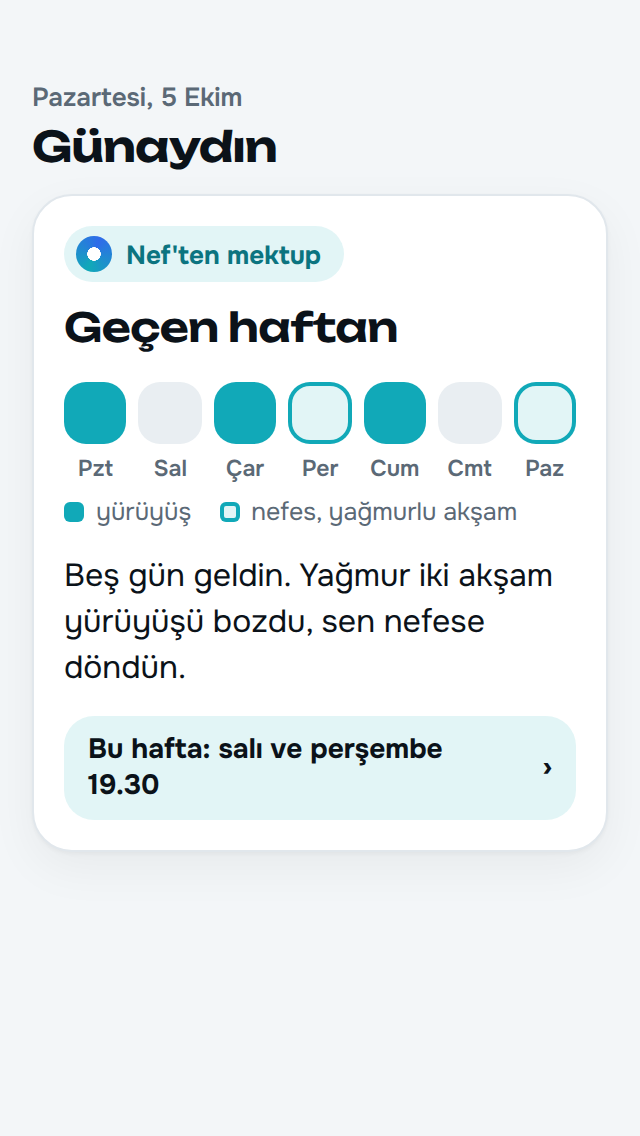
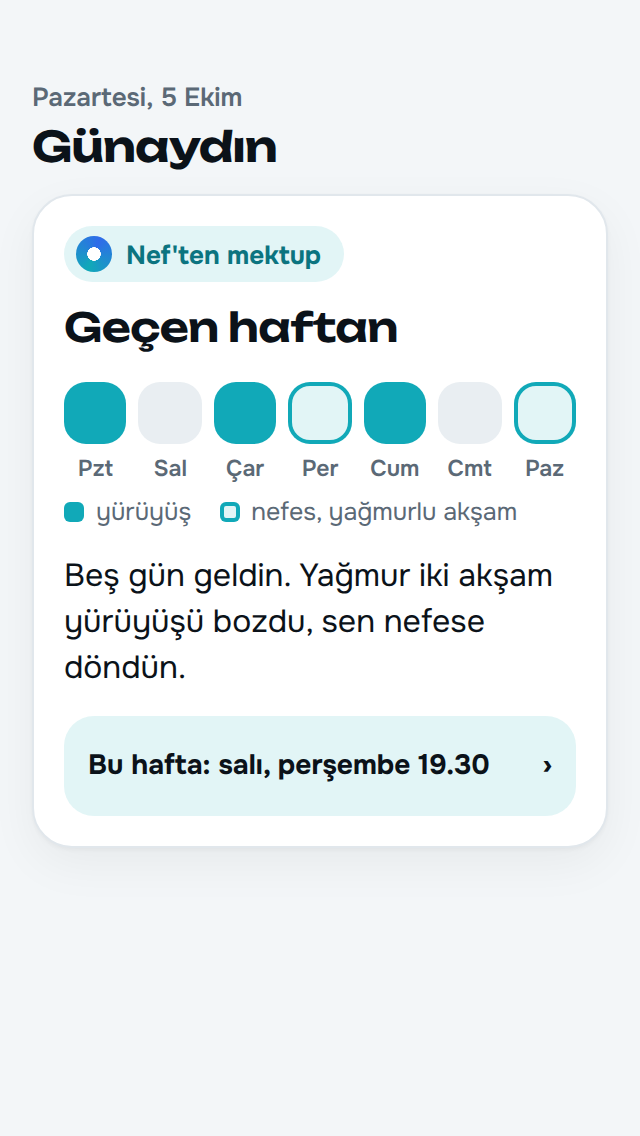
Nef örnekleri 3. tur sonucu: M1C 4/5, M4A 5/5, M5C 4/5 geçti; plan güncellendi
Claude-Session: https://claude.ai/code/session_01EMzDxToauEGD9S7dcWnzcj

Changed region(s): [[0.125, 0.647, 0.875, 0.7702]]

diff --git a/docs/yol-haritasi/tasarim/nef/ornekler/tur3.html b/docs/yol-haritasi/tasarim/nef/ornekler/tur3.html
@@ -165,12 +165,12 @@ body { font-family: var(--f-body); color: var(--ink); -webkit-font-smoothing: an
 <div class="phone app" id="M4A" hidden><div class="eyebrow">Pazartesi, 5 Ekim</div><h1>Günaydın</h1><section class="card"><span class="badge"><i></i>Nef'ten mektup</span>
 <p class="hero">Yağmurlu iki akşam yürüyüş yerine nefesi seçtin; düzenin bozulmadı.</p><div class="wk"><div><i class="w"></i>Pzt</div><div><i class=""></i>Sal</div><div><i class="w"></i>Çar</div><div><i class="b"></i>Per</div><div><i class="w"></i>Cum</div><div><i class=""></i>Cmt</div><div><i class="b"></i>Paz</div></div>
 <div class="lg"><span>yürüyüş</span><span class="b">nefes, yağmurlu akşam</span></div>
-<div class="tipline"><span>Bu hafta: salı ve perşembe 19.30</span><span>›</span></div></section></div>
+<div class="tipline"><span>Bu hafta: salı, perşembe 19.30</span><span>›</span></div></section></div>
 <div class="phone app" id="M4B" hidden><div class="eyebrow">Pazartesi, 5 Ekim</div><h1>Günaydın</h1><section class="card"><span class="badge"><i></i>Nef'ten mektup</span>
 <p class="hero" style="font-size:20px">Geçen haftan</p><div class="wk"><div><i class="w"></i>Pzt</div><div><i class=""></i>Sal</div><div><i class="w"></i>Çar</div><div><i class="b"></i>Per</div><div><i class="w"></i>Cum</div><div><i class=""></i>Cmt</div><div><i class="b"></i>Paz</div></div>
 <div class="lg"><span>yürüyüş</span><span class="b">nefes, yağmurlu akşam</span></div>
 <p style="margin:0 0 12px;font-size:16px;line-height:1.45">Beş gün geldin. Yağmur iki akşam yürüyüşü bozdu, sen nefese döndün.</p>
-<div class="tipline"><span>Bu hafta: salı ve perşembe 19.30</span><span>›</span></div></section></div>
+<div class="tipline"><span>Bu hafta: salı, perşembe 19.30</span><span>›</span></div></section></div>
 <div class="phone app" id="M4C" hidden><div class="eyebrow">Pazartesi, 5 Ekim</div><h1>Günaydın</h1><section class="card letter short"><span class="badge"><i></i>Nef'ten mektup</span>
 <p style="margin-top:14px">Geçen hafta yağmur iki akşam yürüyüşünü bozdu. Sen ikisinde de nefese döndün.</p>
 <p>Bu hafta salı ve perşembe 19.30 senin.</p><div class="sign">Nef</div></section></div>
@@ -187,7 +187,7 @@ body { font-family: var(--f-body); color: var(--ink); -webkit-font-smoothing: an
 <div class="phone app" id="M5C" hidden><div class="eyebrow">Pazar, 11 Ekim</div><h1>İyi akşamlar</h1><section class="card"><span class="badge"><i></i>Nef</span>
 <p class="hero">Bu hafta beş alanın dördünde çalıştın. Sırada Dikkat var.</p>
 <div class="doms"><div>Göz<b style="--v:86%"></b></div><div>Nefes<b style="--v:71%"></b></div><div>Ruh hâli<b style="--v:43%"></b></div><div>Hareket<b style="--v:57%"></b></div><div class="gap">Dikkat<b style="--v:0%"></b></div></div>
-<div class="act"><span>Yılan · 2 dk</span><span class="min">›</span></div></section></div>
+<p class="note" style="margin-top:2px">Çubuk: bu hafta o alanda çalıştığın günler.</p><div class="act"><span>Dikkat için Yılan oyunu</span><span class="min">2 dk ›</span></div></section></div>
 <script>
 const q = new URLSearchParams(location.search)
 document.documentElement.dataset.theme = q.get('t') === 'dark' ? 'dark' : 'light'

diff --git a/docs/yol-haritasi/tasarim/nef/PLAN.md b/docs/yol-haritasi/tasarim/nef/PLAN.md
@@ -98,8 +98,11 @@ Bütün telefon kurallarının token maliyeti 0'dır. Sinyal adlarının nerede 
   kişinin kurduğu yürüyüş hatırlatması ya da son 28 günün yürüyüş adımlarından çıkan alışkanlık saati.
 - An: sabah havası bildiriminin yerine ya da yürüyüş hatırlatmasının metni olarak. Günde tek hava cümlesi kuralı
   bozulmaz.
-- Örnek: başlık "Yağmur 19.00'da bekleniyor", gövde "Her zamanki 19.30 yürüyüşünü bir saat öne alırsan yağmura
-  kalmazsın." (görsel M1).
+- Örnek (görsel M1C, 5 saniye kapısında 4/5 ile **geçti**): başlık "Yürüyüşün yağmura denk geliyor", gövde "Bu hafta üç
+  akşam 19.30'da yürüdün. Bugün yağmur 19.00'da bekleniyor; 18.00'de çıkabilirsin."
+- Cümle önce kişinin kendi düzenini söyler, sonra havayı. Kişisel olgu yoksa (yürüyüş alışkanlığı oluşmadıysa) bu an
+  kurulmaz; düz hava uyarısı 0/5 aldı (M1A).
+- Saatler tutarlı olmalı: "bir saat erken" deyip 1,5 saat önceki saati önermek güveni kırdı (M1B).
 - Neden şaşırtır: hava uygulaması yağmuru söyler; Nef **senin** yürüyüşünü söyler.
 - iOS: var olan sabah havası yolu kullanılır. Türkiye'de Apple'ın dakikalık yağmuru yok
   (support.apple.com/105038), saatlik tahmin yeter.
@@ -145,9 +148,11 @@ Bütün telefon kurallarının token maliyeti 0'dır. Sinyal adlarının nerede 
   Olguları an motoru seçer.
 - An: Pazartesi, kişinin en sık açtığı saatte, Ana sayfada kart. Bildirim isteğe bağlı ve varsayılan kapalı
   (Gelişim planındaki "Haftalık gelişim" satırıyla birleşir; iki ayrı Pazartesi bildirimi olmaz).
-- Örnek (görsel M4): "Yedi günün beşinde geldin. Perşembe akşamı nefesten sonra sakinliğin 2'den 4'e çıktı. Yağmurlu
-  iki akşam yürüyüş yerine nefesi seçtin; düzenin bozulmadı." ve "Bu haftaya tek öneri: yürüyüşün en çok 19.00'da.
-  Salı ve perşembe bu saat senin olsun."
+- Görünüm (görsel M4A, 5 saniye kapısında 5/5 ile **geçti**):
+  - Tek cümlelik başlık: "Yağmurlu iki akşam yürüyüş yerine nefesi seçtin; düzenin bozulmadı."
+  - Altında 7 günlük şerit: yürüyüş, yağmurlu akşamın nefesi ve boş gün.
+  - En altta tek öneri satırı: "Bu hafta: salı, perşembe 19.30".
+  - Uzun metin yok. Uzun mektup 2/5 aldı: "metin duvarı".
 - Model yalnız cümleyi kurar. Sayılar paketteki sayılarla birebir aynı olmalı; değilse mektup atılır ve şablon
   mektup gösterilir (§6.3).
 - Rıza: `coach` sürüm 2 (`YOL.nef.md` §7.4).
@@ -426,6 +431,9 @@ dalga göz egzersizleri de olacak; uyku kalitesi ölçülmüyor, ölçüldüğü
   better: 'up' }]` → "Karışık kelimeleri bu hafta ortalama 4 saniyede buldun; geçen hafta 6'ydı." Kelime listesi dile
   göre ayrı tutulur (§4.7).
 
+**Modül adı kuralı:** Nef cümlesinde oyun ya da modül adı geçerken türü de yazılır: "Yılan oyunu", "Dalga sesi". 5
+saniye kapısında yalın ad ilk kez görene anlaşılmadı.
+
 **"Zeki olduğunu anlaması" için kural:** Nef her modülde ilk kez **kişiye özgü bir olgu** söylediği anda bunu
 kaydeder (`nef-said`). Kişi ilk 7 günde en az 3 farklı modülden böyle bir cümle görür; eşik VARSAYIM, ilk ay ölçülür.
 5 saniye kapısının dersi de bu: etkileyen şey kişinin kendi olgusu (§9).
@@ -598,18 +606,26 @@ Sıra, onaylı işlerin önüne geçmez. N1, B1b ve B2 sabah havasıyla birlikte
 
 ## 9. 5 saniye kapısı
 
-Dört örnek iki temada, 390 ve 320 genişlikte çizildi (`ornekler/`). Her turda beş yeni ve bağımsız değerlendirici
-baktı. Ayrıntı `ornekler/5sn-sonuclari.md` dosyasında.
+Üç tur yapıldı; her turda beş yeni ve bağımsız değerlendirici baktı. İki tema, 390 ve 320 genişlik. Ayrıntı
+`ornekler/5sn-sonuclari.md` dosyasında. İki tur geçmeyen parçalar için 3. turda yöntem değişti: her biri üç yönle
+çizildi.
 
-| Örnek | Tur 1 | Tur 2 | Sonuç |
-|---|---|---|---|
-| M2 · seni hatırlayan Nef | 5/5 | 4/5 | **Geçti** |
-| M1 · yağmur ve kişinin yürüyüş saati | 5/5 | 3/5 | Aynı tasarım iki turda farklı puan aldı. Kesin değil; kodlanınca yeniden kapıya girer |
-| M4 · Nef'ten mektup | 5/5 | 2/5 | Tur 1 hâli aday. Tur 2'de eklenen ölçek sözü ve metin yükü bozdu, geri alındı |
-| M3 · havaya göre su | 0/5 | 1/5 | **Kaldı.** Yöntem değişti: su ayrı an değil, kişinin yürüyüş cümlesine yan cümle (F3) |
+| Parça | Geçen tasarım | Sonuç |
+|---|---|---|
+| Seni hatırlayan Nef (F2) | M2 | 5/5 ve 4/5 · **geçti** |
+| Yağmur ve kişinin yürüyüş saati (F1) | M1C | 4/5 · **geçti**, 4 kişi en iyisi seçti |
+| Nef'ten mektup (F5) | M4A: tek cümle + 7 günlük şerit + tek öneri | 5/5 · **geçti**, 4 kişi en iyisi seçti |
+| Haftanın alanları, büyüyen Nef (§4.8) | M5C "Sırada Dikkat var" | 4/5 · **geçti** |
+| Rekor kartı (§4.8 `metricBest`) | M5A | 3/5 · kaldı |
+| Basamak kartı (§4.8 `ladderStep`) | M5B | 0/5 · kaldı; basamak bilgisi ayrı Nef kartı olmaz, yolun kendisinde kalır |
+| Havaya göre su (F3) | M3 | 0/5 ve 1/5 · kaldı; yürüyüş cümlesine yan cümle oldu |
 
-Çıkan ders, planın ana fikrini doğruluyor: "akıllı" hissini **kişinin kendi olgusu** veriyor (M2, M1). Havanın ya da
-suyun kendisi vermiyor (M3).
+**Rekor kartı için karar:** iki tur kuralı nedeniyle yeniden denenmedi. Kod aşamasında yeni yöntemle ele alınacak:
+gerçek veri, oyunun türü cümlede, çubuklarda değer etiketi. Kapıdan geçene kadar rekor yalnız Gelişim'de görünür, Nef
+kartı olmaz.
+
+**Çıkan ders:** etkileyen şey kişinin kendi düzeninden bir olgu. Hava, su ya da genel ilerleme kartı tek başına
+etkilemiyor.
 
 ## 10. Sahibe sorular
 

diff --git a/docs/yol-haritasi/tasarim/nef/ornekler/5sn-sonuclari.md b/docs/yol-haritasi/tasarim/nef/ornekler/5sn-sonuclari.md
@@ -44,3 +44,36 @@ Görüntüler: `tur1/`, `tur2/`. Kaynak dosya: `ornekler.html`, 2. tur hâli.
    Kodlanınca yeniden kapıya girer.
 
 Sahibe yalnız M2 "geçti" diye gösterilir. Öbürleri bu tabloyla birlikte, sonuçlarıyla anlatılır.
+
+## Tur 3 · yöntem değişti: her parça için üç yön (2026-10-01)
+
+Beş yeni değerlendirici baktı: esnaf, kıdemli tasarımcı, acil doktoru, edebiyat öğretmeni ve koşucu öğrenci.
+Görüntüler `tur3/`, kaynak dosya `tur3.html`.
+
+| Taslak | Evet | Seçen | Sonuç |
+|---|---|---|---|
+| M1A · "Yürüyüşün yağmura denk geliyor" · erken çık | 0/5 | 0 | Kaldı: "düz hava uyarısı" |
+| M1B · "Bugün yürüyüş 18.00'de" | 2/5 | 1 | Kaldı: "bir saat erken" ile 18.00 arasındaki 1,5 saat çelişki |
+| **M1C · "Bu hafta üç akşam 19.30'da yürüdün. Bugün yağmur 19.00'da bekleniyor; 18.00'de çıkabilirsin."** | **4/5** | **4** | **Geçti** |
+| **M4A · tek cümle başlık + 7 günlük şerit + tek öneri** | **5/5** | **4** | **Geçti** |
+| M4B · "Geçen haftan" başlık + şerit + cümle | 0/5 | 0 | Kaldı: başlık yarım, tekrar |
+| M4C · kısa düz mektup, imzalı | 2/5 | 1 | Kaldı: "sıcak ama sıradan kart" |
+| M5A · Çemberler rekoru, son 10 tur çubuğu | 3/5 | — | Kaldı: oyun adı ve çubuk farkı anlaşılmadı |
+| M5B · nefes 1 → 2 → 3 dk basamağı | 0/5 | — | Kaldı: "bildik ilerleme kartı" |
+| **M5C · "Beş alanın dördünde çalıştın. Sırada Dikkat var."** | **4/5** | — | **Geçti** |
+
+**Ders:** geçen üçü de kişinin kendi düzeninden bir olgu söylüyor:
+- M1C: "üç akşam 19.30".
+- M4A: "yağmurda nefesi seçtin".
+- M5C: "dört alan, sırada Dikkat".
+
+Kalanlar ya genel bilgi veriyor ya da bildik bir ilerleme kartına benziyor.
+
+**Geçtikten sonra yapılan iki küçük düzeltme** (değerlendiricilerin notu; yeniden kapıya girmedi, görüntüler güncel):
+- M4A'da 320 genişlikte "19.30" alt satıra düşüyordu. Metin "Bu hafta: salı, perşembe 19.30" oldu.
+- M5C'de "Yılan"ın ne olduğu anlaşılmıyordu. Düğme "Dikkat için Yılan oyunu" oldu, çubuğun anlamı bir satırla yazıldı.
+
+**Kalan uyarılar:**
+- Kilit ekranında uygulama adı NEFONA görünür. Bu iOS'un düzeni.
+- Oyun adları (Çemberler, Yılan) ilk kez görene yabancı. Nef cümlelerinde modül adı geçerken türü de yazılır, örneğin
+  "Yılan oyunu". Bu kural plan §4.8'e işlendi.
